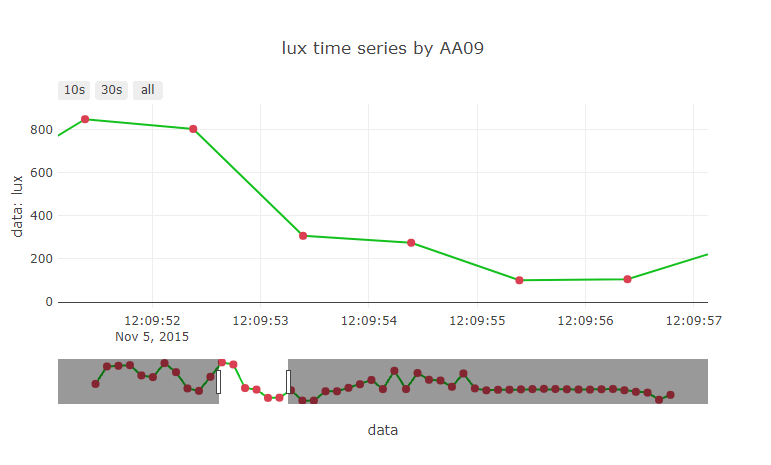
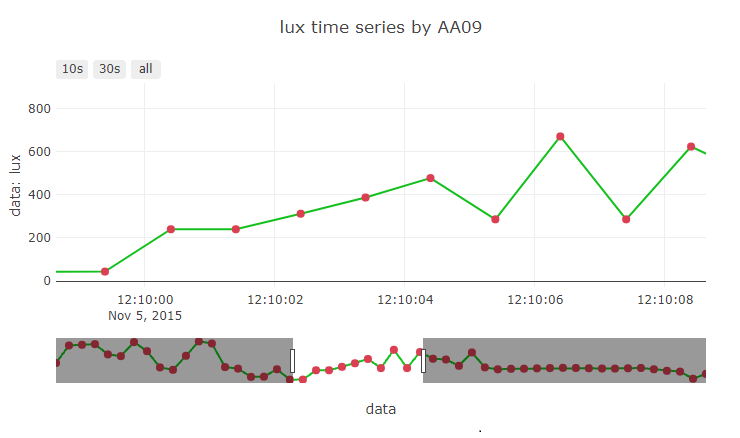
Add files via upload

diff --git a/AA09-rpt07/DV_ts03_sensor_chart.html b/AA09-rpt07/DV_ts03_sensor_chart.html
@@ -99,13 +99,13 @@
 		range: ['2015-11-05 12:09:40.383', '2015-11-05 12:10:30.413'],
 		rangeselector: {buttons: [
 						{
-							count: 1,
+							count: 10,
 							label: '10s',
 							step: 'second',
 							stepmode: 'backward'
 						},
 						{
-							count: 6,
+							count: 30,
 							label: '30s',
 							step: 'second',
 							stepmode: 'backward'

diff --git a/AA09-rpt07/data_charts/DV_ts03_sensor_chart.html b/AA09-rpt07/data_charts/DV_ts03_sensor_chart.html
@@ -99,13 +99,13 @@
 		range: ['2015-11-05 12:09:40.383', '2015-11-05 12:10:30.413'],
 		rangeselector: {buttons: [
 						{
-							count: 1,
+							count: 10,
 							label: '10s',
 							step: 'second',
 							stepmode: 'backward'
 						},
 						{
-							count: 6,
+							count: 30,
 							label: '30s',
 							step: 'second',
 							stepmode: 'backward'
